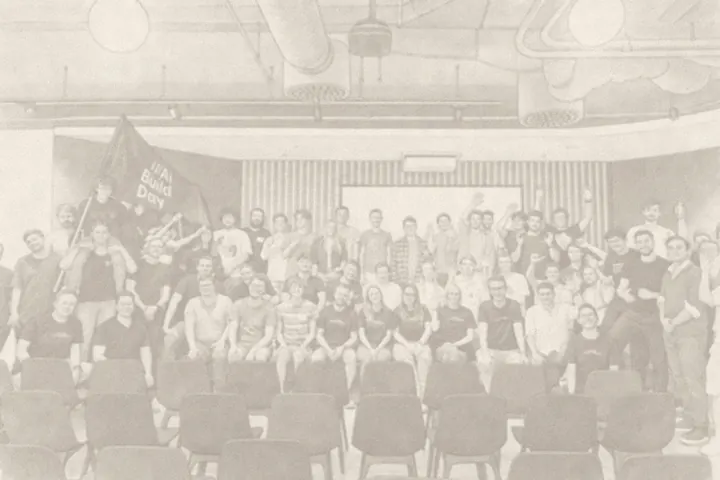
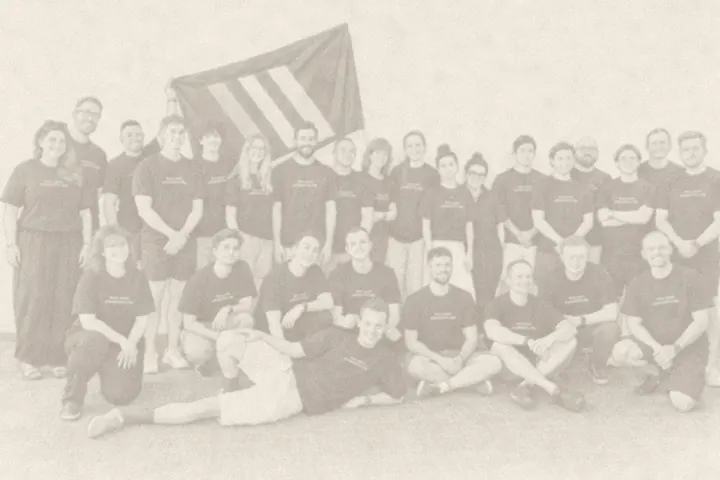
AI Build Week: its own group photo painted for the card and the right description; AI Build Day linked; home title 'Peter Hraska (virpo): AI, design and odd little tools'; gacha prompting defined in the post and in its structured data

diff --git a/app/(room)/page.tsx b/app/(room)/page.tsx
@@ -8,11 +8,11 @@ import { roomDate, RoomFooter, RoomSocial } from "../../components/room/RoomChro
 import { objectForProject, roomPostHref } from "../../components/room/scene/objects";
 import { getLatestPostDate, getPostSummaries } from "../../lib/blog";
 import { labAbout, labProjects } from "../../lib/lab/catalog";
-import { jsonLd, OG_IMAGE, OG_VIDEO, PERSON, RSS_ALTERNATE, SITE_DESCRIPTION, SITE_NAME, SITE_TITLE, SITE_URL } from "../../lib/site";
+import { jsonLd, OG_IMAGE, OG_VIDEO, PERSON, RSS_ALTERNATE, SITE_DESCRIPTION, SITE_NAME, SITE_TITLE, SITE_URL, HOME_TITLE } from "../../lib/site";
 import styles from "./room.module.css";
 
 export const metadata: Metadata = {
-  title: { absolute: SITE_TITLE },
+  title: { absolute: HOME_TITLE },
   description: SITE_DESCRIPTION,
   alternates: { canonical: "/", types: RSS_ALTERNATE },
   openGraph: {
@@ -20,7 +20,7 @@ export const metadata: Metadata = {
     url: "/",
     siteName: SITE_NAME,
     locale: "en_US",
-    title: SITE_TITLE,
+    title: HOME_TITLE,
     description: SITE_DESCRIPTION,
     images: [OG_IMAGE],
     // the pocket-device cut, for previews that play video
@@ -30,7 +30,7 @@ export const metadata: Metadata = {
     card: "summary_large_image",
     site: "@virpo",
     creator: "@virpo",
-    title: SITE_TITLE,
+    title: HOME_TITLE,
     description: SITE_DESCRIPTION,
     images: [{ url: OG_IMAGE.url, alt: OG_IMAGE.alt }],
   },

diff --git a/app/(room)/blog/[slug]/page.tsx b/app/(room)/blog/[slug]/page.tsx
@@ -58,6 +58,11 @@ export async function generateMetadata({ params }: Props): Promise<Metadata> {
   }
 }
 
+// terms a post coins, so answer engines can quote the definition and credit it
+const DEFINED_TERMS: Record<string, { name: string; description: string }> = {
+  "how-this-room-was-made": { name: "Gacha prompting", description: "When in doubt, ask for 10 versions and select the one you like with your own eyes." },
+};
+
 export function articleJsonLd(post: Pick<PostSource, "slug" | "title" | "description" | "publishedAt" | "updatedAt" | "socialImage" | "tags"> & { source?: string }) {
   const url = `${SITE_URL}/blog/${post.slug}/`;
   const words = post.source ? post.source.split(/\s+/).filter(Boolean).length : undefined;
@@ -80,6 +85,7 @@ export function articleJsonLd(post: Pick<PostSource, "slug" | "title" | "descrip
         author: PERSON,
         publisher: { "@id": PERSON["@id"] },
         image: absolute(post.socialImage ?? OG_IMAGE.url),
+        ...(DEFINED_TERMS[post.slug] ? { about: { "@type": "DefinedTerm", ...DEFINED_TERMS[post.slug], url: `${url}#post` } } : {}),
       },
       // the breadcrumb shown above the post: Peter Hraska / Writing / this post
       {

diff --git a/lib/lab/catalog.ts b/lib/lab/catalog.ts
@@ -16,7 +16,7 @@ const blurbs: Record<string, string> = {
   "Žltá stopa": "Agentic kit for investigative journalists to interrogate public data.",
   "Mood Radio": "A mood-based music picker from 2013. Basically pre-Spotify, still weirdly timeless.",
   "Pegboard Toy": "An ugly sketch and two measurements became a 3D-printed toy for my son.",
-  "AI Build Week": "Twelve hours, tiny teams, and products that earned their first euro.",
+  "AI Build Week": "A week for 20 people to build, launch and validate their own AI-native business. July 2026.",
   "CMUX Deck": "A Stream Deck that shows what each of my coding agents is doing.",
 };
 

diff --git a/app/llms.txt/route.ts b/app/llms.txt/route.ts
@@ -22,6 +22,7 @@ export function GET() {
     "## Projects",
     "",
     ...projects.map((project) => `- [${project.title}](${new URL(project.href, SITE_URL).toString()}): ${project.blurb}`),
+    "- [AI Build Day](https://buildday.ai/): a 12-hour AI hackathon in Bratislava, 20 September 2025.",
     "- [Bratislava Slush’D](https://bratislavaslushd.com/): the official Slush spin-off in Bratislava, 21 October 2025.",
     "- [Advent of No-Code](https://www.adventofnocode.io/): 24 daily no-code challenges, December 2024.",
     "",

diff --git a/lib/site.ts b/lib/site.ts
@@ -5,6 +5,8 @@ export const SITE_URL = "https://virpo.io";
 export const SITE_NAME = "virpo";
 export const AUTHOR = "Peter Hraska";
 export const SITE_TITLE = "Peter Hraska";
+// the home page's own title, for tabs and search results (other pages read "<page> · Peter Hraska")
+export const HOME_TITLE = "Peter Hraska (virpo): AI, design and odd little tools";
 export const SITE_DESCRIPTION =
   "Peter Hraska builds AI products, odd little tools, physical objects and events. His site is a tiny painted room you can poke at.";
 

diff --git a/.claude/skills/pocket-room-art/SKILL.md b/.claude/skills/pocket-room-art/SKILL.md
@@ -59,7 +59,7 @@ re-explore a rejected direction unless he asks.
 | Peter's wave, arms fixed (twisted towards the camera, both hands right of his head: waving beside his face, the other on his lap; combined from `peter-wave-fix.png` and `peter-wave-fix-2.png`, see `fixes.py`) | `peter-wave.webp` | `art/fixes/peter-wave-fix-4.png` | `prompts/peter-wave-fix.txt`, `-fix-2.txt`, `-fix-4.txt` | `art/fixes/peter-wave-crop.png` | `fixes.py` (inside `build.py`) |
 | Notebooks, cat, mug, printed part | `notebook-*.webp`, `cat.webp`, `part.webp` | `art/props.png` (on magenta) | `prompts/props.txt` | `art/plate-b.png` | `build.py` |
 | App-screen object cards | `card-<id>.webp` | `art/cards/<id>.png` (on magenta) | `prompts/card-<id>.txt` | plate crop (`cards.py refs`), `plate-b.png` | `cards.py` |
-| Project cards | `projects/<slug>.webp` and `projects/<slug>-pencil.webp` | `art/projects/<slug>.png` (on paper) | `prompts/project-<slug>.txt` | the real screenshot or photo in `art/projects/refs/` (+ `art/plate-b.png` as the style) | `projects.py` |
+| Project cards | `projects/<slug>.webp` and `projects/<slug>-pencil.webp` | `art/projects/<slug>.png` (on paper; ai-build-week is the real AI Build Week group photo, `refs/ai-build-week-group.jpg`, the older `refs/ai-build-week-photo.jpg` is from AI Build Day) | `prompts/project-<slug>.txt` | the real screenshot or photo in `art/projects/refs/` (+ `art/plate-b.png` as the style) | `projects.py` |
 | Favicon and X avatar | `brand/icon-{16,32,48,64}.png`, `brand/apple-touch-icon.png`, `output/lab/brand/x-avatar-400.jpg` | `art/brand/favicon-art.png` | `prompts/favicon.txt` | `art/brand/x-avatar.jpg` (the real X avatar), the `peter-wave` sprite | `brand.py` |
 | Margin toys beside a post (hydrangea is the one shown; shiba asleep/awake, walking shiba, strap charm, crane, lucky cat are previews via `?margin=`) | `public/lab/room/margin/*.webp`, positions in `components/room/margin/art.json` | `art/margin/<name>.png` (on magenta; `hydrangea-heads-2.png` supplies one even violet head because head 6 of the first was split blue/violet) | `prompts/margin-<name>.txt` | `art/plate-b.png` + the concept sketch in `art/margin/concepts/` | `margin.py` (bud positions and the cat's coin slot are placed by eye in it) |
 | The handheld's wrist strap (braided cord, aluminium cord lock, thin cord; hangs behind the case) | `public/lab/room/strap.webp`, placed in `components/room/Lanyard.tsx` | `art/strap/strap.png` (on magenta) | `prompts/strap.txt` | `art/strap/strap-now-ref.png` (the vector strap it replaced) | `strap.py` |
